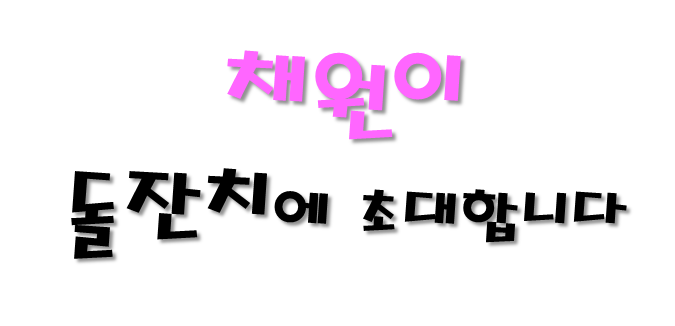
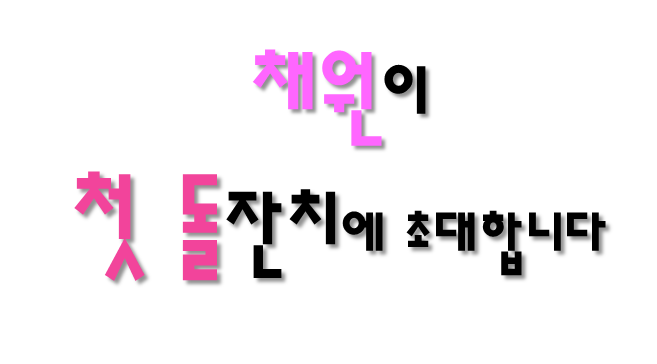
commit

Changed region(s): [[0.0913, 0.4601, 0.9437, 0.8282], [0.3349, 0.1227, 0.7002, 0.4601]]

diff --git a/index.html b/index.html
@@ -30,11 +30,11 @@
     </div>
 
     <div class="pure-g">
-      <div class="photo-box pure-u-1 pure-u-md-1-2 pure-u-lg-1-3">
+      <div class="photo-box pure-u-1 pure-u-md-1-2 pure-u-lg-1-3" style="width: 100%; height: 100%;">
         <img src="images/20180125_37811.JPG">
       </div>
 
-      <div>
+      <div style="text-align: center; width: 100%;">
           <img src="images/title.png" style="width: 100%;">
       </div>
   
